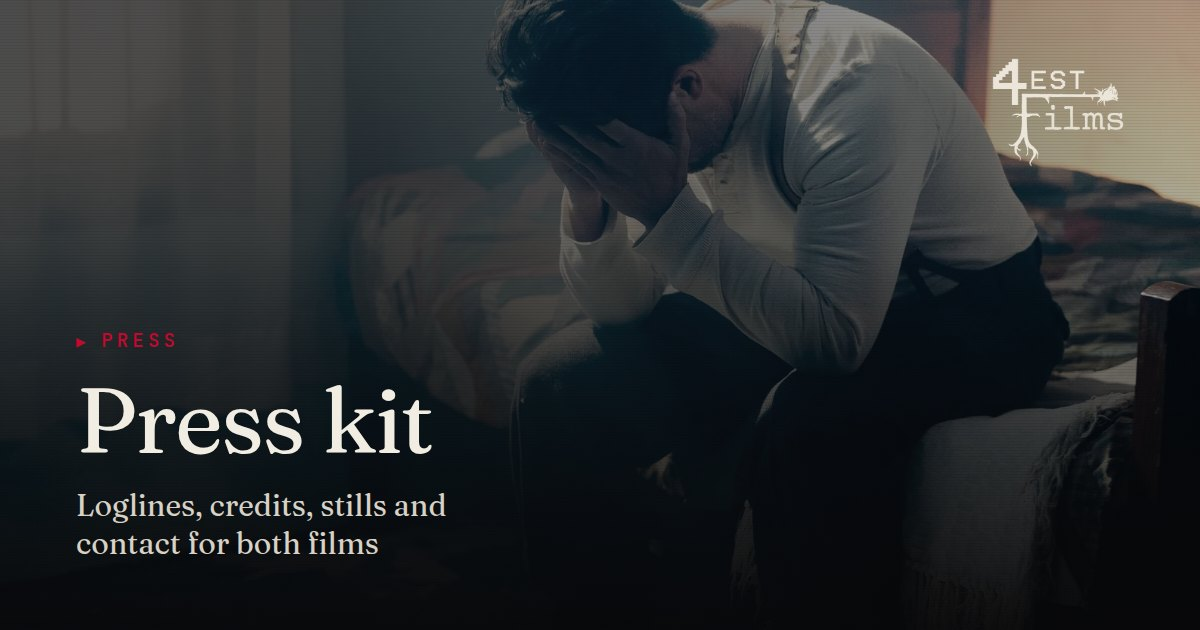
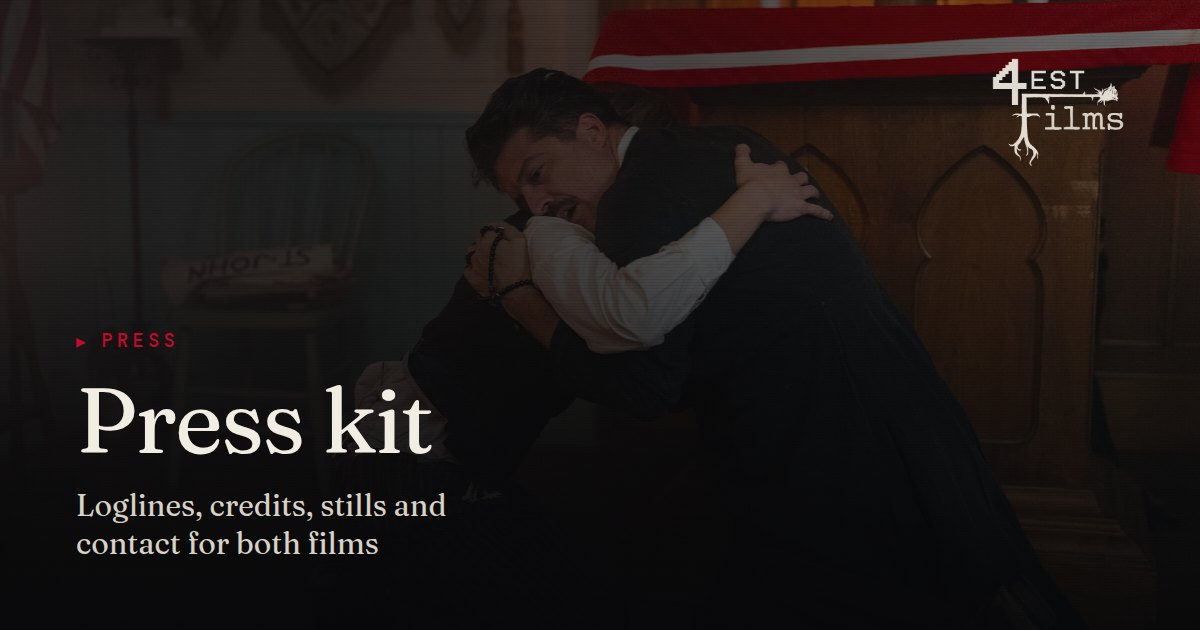
Give the lead the press page (#22)
Jeromy Darling plays Patrick Manogue, and the press kit had roughly two
frames of him out of fourteen. What it had instead was production design:
rooms, props, a horse. That is a kit for the art department, not for the
film, and it is the wrong thing to hand a programmer or a journalist who
needs a face to run beside a review.

Twenty-four stills now, thirteen of them Manogue. They are grouped, so
the lead leads:

  Father Manogue    13  the altar sequence, the candlelit church, the stairs
  Lantern and candle 4  the practicals the film is actually lit by
  The picture        7  the company around him

Every frame was opened at full size before it went in. The shoot's BTS
folder mixes unit photography in with in-world frames and the difference
does not show in a contact sheet — four candidates went out for a modern
camp chair, crew in the background, and a camera in shot. The lantern
frames were found by scoring the whole 384-image set for a dark frame
with a small warm hot core rather than by eye, after eyeballing the grid
misread it twice.

Press share card moves to the altar-rail frame for the same reason.

diff --git a/site/src/data/press.ts b/site/src/data/press.ts
@@ -8,21 +8,57 @@ export const pressContact = {
   instagram: company.instagram,
 };
 
-export const pressStills = [
-  { src: '/press/hnim/hnim-day7_DSC04556.webp', alt: 'A period schoolroom of children reciting verse' },
-  { src: '/press/hnim/hnim-day7_DSC04453.webp', alt: 'A man kneeling at a bedside in backlit smoke' },
-  { src: '/press/hnim/hnim-day8_DSC04866.webp', alt: 'A figure at a candlelit piano in red light' },
-  { src: '/press/hnim/hnim-day4_DSC03681-Enhanced-NR.webp', alt: 'The King of Virginia City in a doorway' },
-  { src: '/press/hnim/hnim-day4_DSC03636.webp', alt: 'The King of Virginia City and a man in a saloon' },
-  { src: '/press/hnim/hnim-day5_DSC03790.webp', alt: 'Sister Maria in her coif' },
-  { src: '/press/hnim/hnim-day6_DSC04141.webp', alt: 'The groundskeeper at the orphanage piano' },
-  { src: '/press/hnim/hnim-day3_BAT06105.webp', alt: 'The church altar, dressed and lit' },
-  { src: '/press/hnim/hnim-day1_DSC02978.webp', alt: 'The interior of the church' },
-  { src: '/press/hnim/hnim-day1_DSC03021.webp', alt: 'Candlelight in the church pews' },
-  { src: '/press/hnim/hnim-day2_DSC03144.webp', alt: 'Two figures through a window, seen from outside' },
-  { src: '/press/hnim/hnim-day2_DSC03167.webp', alt: 'An oil lamp, a bible and lace' },
-  { src: '/press/hnim/hnim-day9_DSC05013.webp', alt: 'Two figures on a rock in the river' },
-  { src: '/press/hnim/hnim-day9_DSC05088.webp', alt: 'A horse in profile at dusk' },
+/**
+ * Stills cleared for publication, grouped.
+ *
+ * Weighted to Jeromy Darling as Father Manogue, who is the lead and had two
+ * frames out of fourteen in the first cut of this page — which is not a
+ * press kit for this film, it is a press kit for its production design.
+ * Every frame here was checked at full size for crew, monitors and slates;
+ * the shoot's BTS folder mixes unit photography in with in-world frames and
+ * the difference is not visible in a contact sheet.
+ */
+export type StillGroup = 'manogue' | 'light' | 'film';
+
+export const stillGroups: { key: StillGroup; label: string; note: string }[] = [
+  {
+    key: 'manogue',
+    label: 'Father Manogue',
+    note: 'Jeromy Darling as Patrick Manogue — the only priest in the state of Nevada.',
+  },
+  {
+    key: 'light',
+    label: 'Lantern and candle',
+    note: 'The film is lit by what the characters carry. These are the practicals.',
+  },
+  { key: 'film', label: 'The picture', note: 'The company around him.' },
+];
+
+export const pressStills: { src: string; group: StillGroup; alt: string }[] = [
+  { src: '/press/hnim/hnim-d4_DSC03554.webp', group: 'manogue', alt: 'Father Manogue holding a wounded boy before the altar' },
+  { src: '/press/hnim/hnim-d4_DSC03555.webp', group: 'manogue', alt: 'Father Manogue at the altar, the boy behind him' },
+  { src: '/press/hnim/hnim-d4_DSC03663.webp', group: 'manogue', alt: 'Father Manogue kneeling to hold the boy at the altar rail' },
+  { src: '/press/hnim/hnim-d4_DSC03626.webp', group: 'manogue', alt: 'The boy, bloodied, holding Father Manogue as he falls' },
+  { src: '/press/hnim/hnim-d4_DSC03629.webp', group: 'manogue', alt: 'Father Manogue on the church floor in the boy’s arms' },
+  { src: '/press/hnim/hnim-d3_BAT06157.webp', group: 'manogue', alt: 'Father Manogue kneeling to tend the boy’s leg by candlelight' },
+  { src: '/press/hnim/hnim-d3_BAT06161.webp', group: 'manogue', alt: 'Father Manogue and the boy in the candlelit church' },
+  { src: '/press/hnim/hnim-d3_DSC03280.webp', group: 'manogue', alt: 'Father Manogue on the stairs, looking back toward a lit door' },
+  { src: '/press/hnim/hnim-d3_DSC03293.webp', group: 'manogue', alt: 'Father Manogue in a doorway above a figure on the ground' },
+  { src: '/press/hnim/hnim-d3_DSC03297.webp', group: 'manogue', alt: 'Father Manogue kneeling to cover the boy with a blanket' },
+  { src: '/press/hnim/hnim-d3_DSC03312.webp', group: 'manogue', alt: 'Jeromy Darling as Manogue, out of the cassock, against a lit doorway' },
+  { src: '/press/hnim/hnim-d3_DSC03325.webp', group: 'manogue', alt: 'Manogue carrying bedding past an oil lamp' },
+  { src: '/press/hnim/hnim-d3_DSC03330.webp', group: 'manogue', alt: 'Manogue at a doorway, lamplight below' },
+  { src: '/press/hnim/hnim-d3_DSC03304.webp', group: 'light', alt: 'An oil lantern hanging in the barn' },
+  { src: '/press/hnim/hnim-d6_DSC04234.webp', group: 'light', alt: 'A lantern beside a wedding portrait on a log wall' },
+  { src: '/press/hnim/hnim-d8_DSC04908.webp', group: 'light', alt: 'Candles, a bottle and a playbill on a table' },
+  { src: '/press/hnim/hnim-d8_DSC04913.webp', group: 'light', alt: 'A cut apple and candles along a piano top' },
+  { src: '/press/hnim/hnim-d7_DSC04453.webp', group: 'film', alt: 'A man kneeling at a bedside in backlit smoke' },
+  { src: '/press/hnim/hnim-d8_DSC04866.webp', group: 'film', alt: 'The King of Virginia City at a candlelit piano' },
+  { src: '/press/hnim/hnim-d4_DSC03681-Enhanced-NR.webp', group: 'film', alt: 'The King of Virginia City levelling a pistol' },
+  { src: '/press/hnim/hnim-d5_DSC03790.webp', group: 'film', alt: 'Sister Maria in her coif' },
+  { src: '/press/hnim/hnim-d6_DSC04141.webp', group: 'film', alt: 'The groundskeeper at the orphanage piano' },
+  { src: '/press/hnim/hnim-d7_DSC04556.webp', group: 'film', alt: 'A period schoolroom of children reciting verse' },
+  { src: '/press/hnim/hnim-d9_DSC05088.webp', group: 'film', alt: 'A horse in profile at dusk' },
 ];
 
 /** Plain text, so the archive is legible without opening a browser. */
